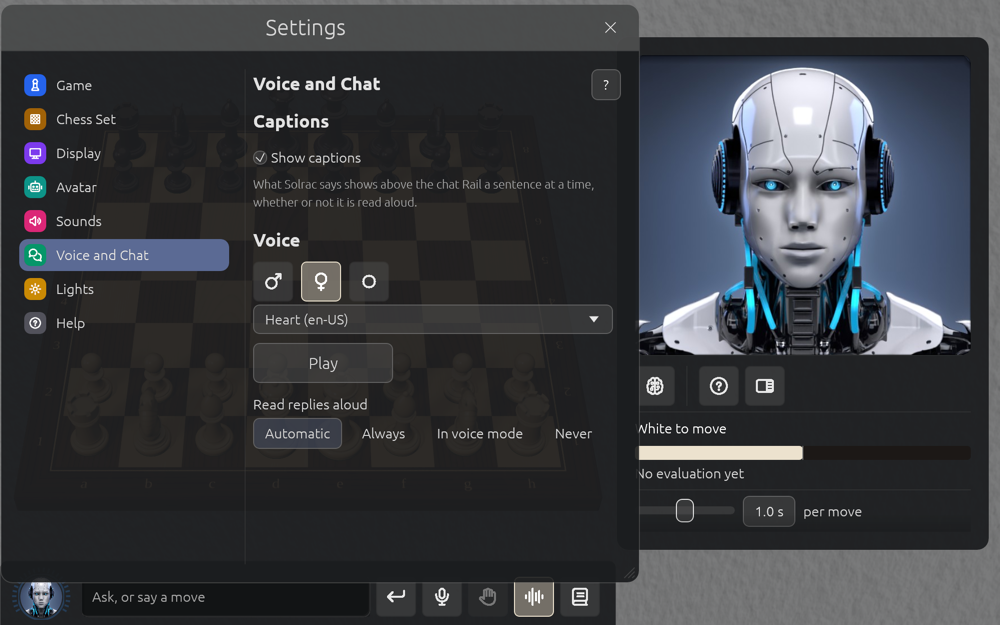
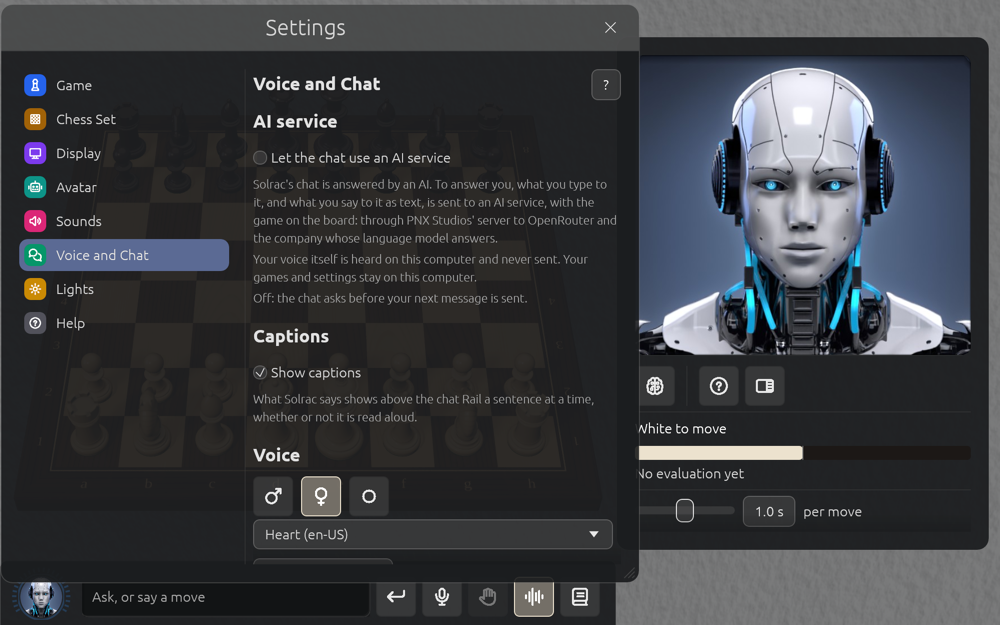
The chat asks before the first message; Talk hears on your Mac only
The chat and voice: the notice, with its picture, and Talk waiting for the
voice. Privacy: who the chat reaches, the voice never sent, and replies
read only by the local voice. FAQ and Settings > Voice and Chat follow.

Changed region(s): [[0.248, 0.2432, 0.62, 0.912], [0.434, 0.6384, 0.589, 0.6992], [0.248, 0.1824, 0.341, 0.2128]]

diff --git a/book/src/privacy.md b/book/src/privacy.md
@@ -7,15 +7,14 @@ four places, and only these:
 | --- | --- | --- |
 | **Licence** (release builds) | PNXStudios' licence service | Your licence key, this machine's name and a fingerprint of it, the operating system's and Solrac's versions. It answers with a certificate, and may say a newer Solrac exists. |
 | **Account** | PNXStudios' sign-in and the account database | What signing in to solrac-chess.com needs. Accounts and licences are kept apart. |
-| **Chat** | PNXStudios' relay to a language model | What you type or say (as text), the position and analysis a question needs, and which licence seat or account pays for it. |
+| **Chat** | PNXStudios' relay, then OpenRouter and the company whose language model answers | What you type or say (as text), the position and analysis a question needs, and which licence seat or account pays for it. Solrac asks before your first message is sent. |
 | **Downloads** | PNXStudios' download server | The voice models, once, and the page for a new release, which you open yourself. |
 
 Also:
 
-- **Your voice is heard on your Mac.** Recordings are turned into text locally and never
-  saved. Only if the local model isn't ready does a recording go to an online transcription,
-  through the same relay.
-- **Replies are read aloud on your Mac** by a local voice; online speech is the fallback.
+- **Your voice is heard on your Mac.** Recordings are turned into text locally, and never
+  sent or saved. Until the voice has downloaded, Talk waits.
+- **Replies are read aloud on your Mac** by a local voice, once it has downloaded.
 - **Your games library** (chessdb) is a file on your Mac. Nothing uploads it.
 - **Engines**: cb2026 runs on your Mac, and talks to the network only if *you* pair an engine
   on another computer, and then only to that engine, encrypted.

diff --git a/book/src/chat-and-voice.md b/book/src/chat-and-voice.md
@@ -56,14 +56,22 @@ answered."
 The chat is answered by a language model reached through PNXStudios' service, paid with your
 **tokens**, so there is no key to set up. It works with a licence seat on this machine or with a
 signed-in account. If you run out, the chat tells you so. What is sent to get a reply is what
-you type or say (as text) and the position and analysis the question needs. Your games library
-and settings stay on your Mac.
+you type or say (as text) and the position and analysis the question needs, through PNX Studios'
+server to OpenRouter and the company whose language model answers. Your voice itself, your games
+library and your settings stay on your Mac.
+
+![Solrac's chat asks before your first message](images/ai-notice.png)
+
+Before your first message, Solrac says this and asks: **Continue** sends your message, and
+Solrac doesn't ask again; **Not now** (or Esc) sends nothing, and it asks again next time. You
+can change your answer under **Settings → Voice and Chat → AI service**.
 
 ## Voice
 
 - **Talk**: hold Space or the Talk button, for up to 30 seconds. The notice above the Rail
   counts the seconds ("Listening: let go to send"). What you say is turned into text **on your
-  Mac** and never saved; online transcription is only a fallback while the voice downloads.
+  Mac**, never sent and never saved. Until the voice has downloaded (once), Talk is greyed out,
+  and its tooltip says why; if the voice couldn't load, Talk waits until Solrac starts again.
 - **Hands-free** keeps the microphone open without a wake word. It waits for you to pause,
   ignores Solrac's own speech, lets you speak over it, and hears an unclear move twice and
   checks it against the legal moves. Half a move, such as "Bishop", waits a moment for the

diff --git a/book/src/faq.md b/book/src/faq.md
@@ -15,8 +15,8 @@ tokens to pay with. Check Settings → Account.
 
 **It doesn't hear me.** Hold Space or the Talk button and speak for at least a moment (up to 30 seconds). macOS must have
 allowed Solrac to use the microphone (System Settings → Privacy & Security → Microphone).
-The voice models download once on first use, so the first try may fall back to online
-transcription.
+The voice models download once on first use: until then Talk is greyed out, and its tooltip
+says why.
 
 **Solrac stopped moving.** If the status line says there is an engine error, choose **Restart Solrac**, the button under it in the panel: it starts the engine again and the game carries on. If you are playing on another computer's engine, see [that chapter's troubleshooting](network-play.md#when-something-goes-wrong).
 

diff --git a/book/src/preferences.md b/book/src/preferences.md
@@ -187,6 +187,14 @@ The same two switches are in the menu bar, under **Settings → Sound**.
 
 ![Settings, the Voice and Chat page](images/preferences-voice-and-chat.png)
 
+**AI service**
+
+- **Let the chat use an AI service**: what Solrac asked before your first chat message. What you
+  type or say to the chat (as text) goes, with the game, through PNX Studios' server to OpenRouter
+  and the company whose language model answers; your voice itself is heard here and never sent.
+  Off, the chat asks again before your next message is sent. See
+  [The chat and voice](chat-and-voice.md).
+
 **Captions**
 
 - **Show captions**: on to start. What Solrac says appears as closed captions above the Rail, a
